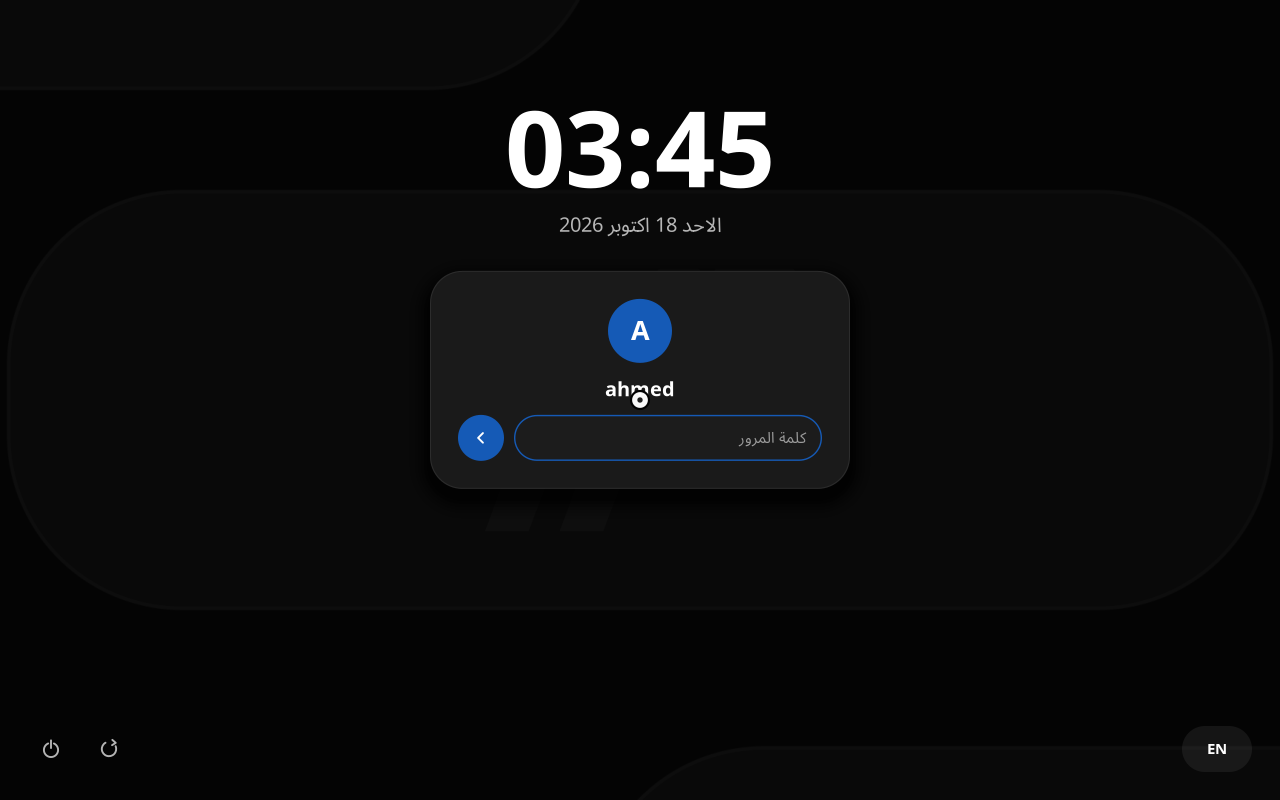
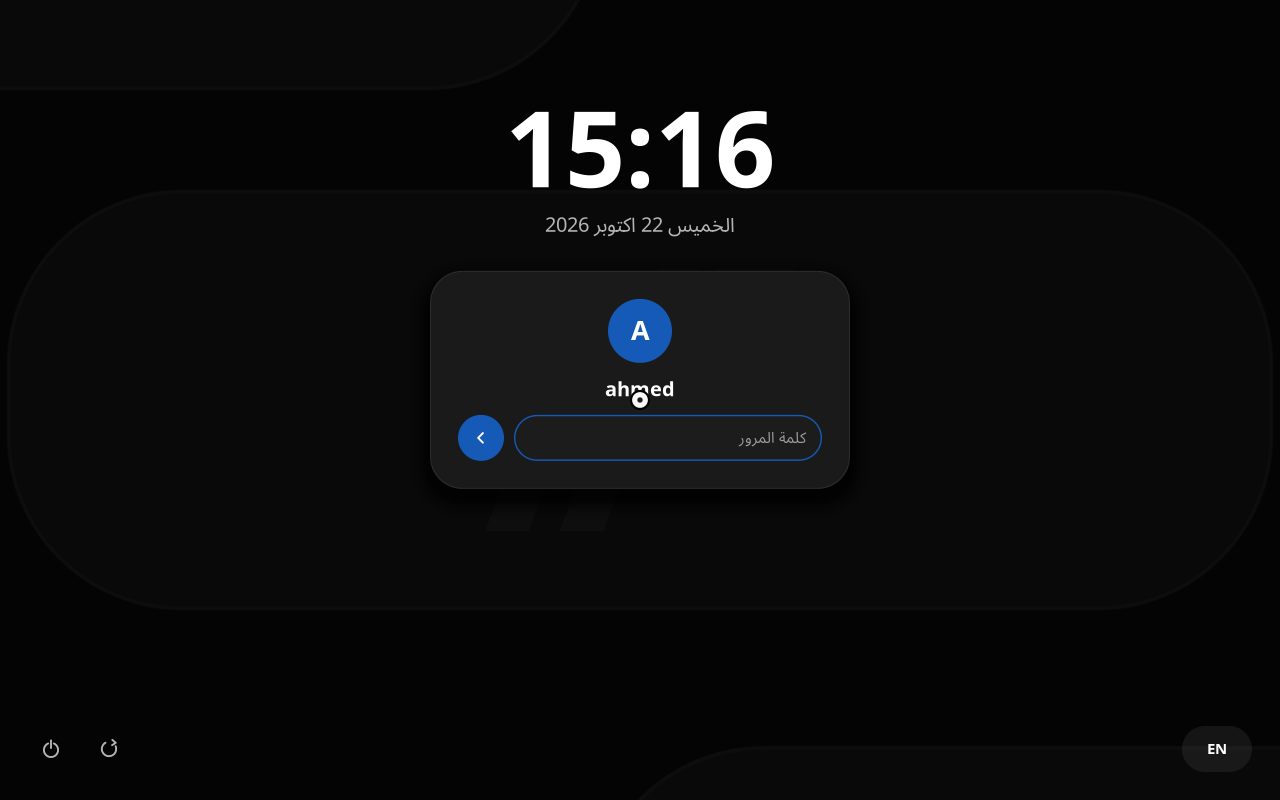
IFOS subsystem: IFelxOS2.5 as its ODE installer, like IFelxOS2 (v7.2)
IFelxOS2.5 is downloaded as IFelxOS2.5-amd64.iso, the IFelxOS2 ODE
installer with IFelxOS2.5's system image: start from it, the installer
opens, and the installed system is used as usual. The section shows the
ODE installer and the installed system, with the ODE installation steps.

Changed region(s): [[0.375, 0.125, 0.5938, 0.25], [0.4375, 0.25, 0.5625, 0.3125]]

diff --git a/ifos-subsystem/index.html b/ifos-subsystem/index.html
@@ -171,9 +171,9 @@ ip -br a</pre>
             <h2>IFelxOS2.5 <span class="badge latest ifos-inline-badge">New</span></h2>
             <p>IFelxOS2.5 is the interface update of IFelxOS2: the same system and the same IFelx look (colours, rounded corners, fonts, right to left first) with <strong>IFelxUi 1.5</strong>. It fixes how the interface lays out Arabic text, makes it lighter to run, and closes a hole in its web browser. Nothing in Debian underneath changed.</p>
             <div class="screenshots-grid">
-                <img src="./img/ifelxos25-desktop.png" alt="IFelxOS2.5 live desktop with the clock, system and status widgets" loading="lazy">
-                <img src="./img/ifelxos25-notification.png" alt="IFelxOS2.5 after signing in: the notification comes down at the top centre" loading="lazy">
+                <img src="./img/ifelxos25-ode.png" alt="The ODE installer installing IFelxOS2.5" loading="lazy">
                 <img src="./img/ifelxos25-login.png" alt="IFelxOS2.5 sign-in screen of the installed system" loading="lazy">
+                <img src="./img/ifelxos25-session.png" alt="IFelxOS2.5 after signing in: the notification comes down at the top centre" loading="lazy">
             </div>
             <h3 class="ifos-h3">IFelxOS2 and IFelxOS2.5 compared</h3>
             <table class="specs-table ifos-compare">
@@ -183,7 +183,7 @@ ip -br a</pre>
                 <tbody>
                     <tr><td>Released</td><td>2026-10-02</td><td>2026-10-18</td></tr>
                     <tr><td>Interface</td><td>IFelxUi 1.0 (with the 1.1 fixes)</td><td>IFelxUi 1.5</td></tr>
-                    <tr><td>Download</td><td>The ODE installer, 1.1 GB: it opens straight into the installer</td><td>A live ISO, 990 MB: the desktop starts from the stick, and the Installer in the dock writes it to a disk</td></tr>
+                    <tr><td>Download</td><td colspan="2" class="ifos-both">The same way for both: the ODE installer, 1.1 GB, which opens straight into the installer; the installed system is used as usual</td></tr>
                     <tr><td>Arabic text in buttons, fields, title bars, lists, lock screen</td><td>Sat low: the Arabic face has a taller line than the Latin one</td><td>Centred on its letters, level with English</td></tr>
                     <tr><td>An Arabic line that starts with a Latin word (“DHCP يكتب …”)</td><td>Read left to right</td><td>Takes the interface's direction: right to left</td></tr>
                     <tr><td>Notifications</td><td>In a corner, over the clock widget, the Settings sidebar and window buttons; appear at once</td><td>From the top centre, with a short drop</td></tr>
@@ -196,23 +196,32 @@ ip -br a</pre>
                 </tbody>
             </table>
             <h3 class="ifos-h3">Installing it</h3>
+            <p>IFelxOS2.5 is downloaded as its ODE installer, like IFelxOS2: start the computer from it and the installer opens directly.</p>
             <div class="how-step">
                 <div class="step-num">1</div>
-                <div class="step-body"><h4>Make the USB stick</h4><p>Write <code>IFelxOS2.5.iso</code> to a stick (Rufus, Etcher or <code>dd</code>), or open it in a virtual machine, and start the computer from it.</p></div>
+                <div class="step-body"><h4>Make the USB stick</h4><p>Any way works: Rufus (either mode), Etcher, Ventoy or <code>dd</code>. Start the computer from the stick.</p></div>
             </div>
             <div class="how-step">
                 <div class="step-num">2</div>
-                <div class="step-body"><h4>Try it</h4><p>The IFelxUi desktop starts from the stick, in Arabic; the language switches to English in Settings.</p></div>
+                <div class="step-body"><h4>Start, terms, disk</h4><p>Press <strong>Start</strong>, accept the terms, choose the disk. The stick you started from is never offered.</p></div>
             </div>
             <div class="how-step">
                 <div class="step-num">3</div>
-                <div class="step-body"><h4>Install</h4><p>Open the <strong>Installer</strong> from the dock: the disk (the stick you started from is never offered), the installation type, your account and password. After it is done, remove the stick and restart: the installed system opens on its sign-in screen.</p></div>
+                <div class="step-body"><h4>Installation type</h4><p><strong>Erase disk and install</strong> takes the whole disk. <strong>Choose a partition</strong> keeps the others; GParted opens from this page to make room.</p></div>
             </div>
-            <p class="ifos-note">Checked in QEMU/KVM before publishing: the live desktop, the installation, the installed disk started on UEFI and on BIOS, signing in, a wrong password refused, the lock screen.</p>
+            <div class="how-step">
+                <div class="step-num">4</div>
+                <div class="step-body"><h4>Your account</h4><p>Computer name, account name and password. This account can manage the computer with its password (sudo).</p></div>
+            </div>
+            <div class="how-step">
+                <div class="step-num">5</div>
+                <div class="step-body"><h4>Install and restart</h4><p>After <em>Done</em>, remove the stick and restart. IFelxOS2.5 opens on its sign-in screen; sign in and use it as usual.</p></div>
+            </div>
+            <p class="ifos-note">Checked in QEMU/KVM before publishing: the ODE installer started from the ISO, erased the disk and installed IFelxOS2.5; the installed disk started on UEFI and on BIOS, refused a wrong password and signed in.</p>
             <div class="download-buttons">
-                <a href="https://axv-1.tailce0b52.ts.net/IFOS/IFelxOS2.5.iso" class="project-btn">Download IFelxOS2.5 · 990 MB</a>
+                <a href="https://axv-1.tailce0b52.ts.net/IFOS/IFelxOS2.5-amd64.iso" class="project-btn">Download IFelxOS2.5 · 1.1 GB</a>
             </div>
-            <p class="ifos-version-dl"><a href="https://axv-1.tailce0b52.ts.net/IFOS/IFelxOS2.5.iso">IFelxOS2.5.iso</a> · 990 MB<br><span class="ifos-sha">SHA-256 7741bd10b063c6db01c596edfff948dd64fe283de9a7b23a8aeb783d004938ee</span></p>
+            <p class="ifos-version-dl"><a href="https://axv-1.tailce0b52.ts.net/IFOS/IFelxOS2.5-amd64.iso">IFelxOS2.5-amd64.iso</a> · 1.1 GB<br><span class="ifos-sha">SHA-256 b529069bd424132fdc6deb1becc6cd4e2aa67825679797d2bd9635c8ee46ef45</span></p>
         </section>
 
         <!-- ── ODE installer ────────────────────────────────── -->

diff --git a/site.js b/site.js
@@ -241,6 +241,10 @@ if (tocSections.length >= 3) {
    version shown in the corner. Every update is one release and versions count up
    one step at a time: 1.0 ... 1.9, 2.0 ... 2.9, 3.0 ... (never 1.10). */
 const RELEASES = [
+    { v: "7.2", date: "2026-10-22", changes: [
+        "IFelxOS2.5 is now downloaded as its ODE installer, like IFelxOS2: start the computer from it and the installer opens; the installed system is used as usual.",
+        "The IFelxOS2.5 section shows the ODE installer installing it and the installed system, with its installation steps.",
+    ] },
     { v: "7.1", date: "2026-10-22", changes: [
         "IFOS subsystem page: itelxOS 1.4, with its new sys commands (sys, sys.info, sys.info.device, sys.all and sys.top) and screenshots of them; the download is ITelxOS 1.4.",
         "How to update itelxOS 1.3 to 1.4 with update.xvr from a USB stick, step by step, with the update and a stick image that starts by itself to download.",
